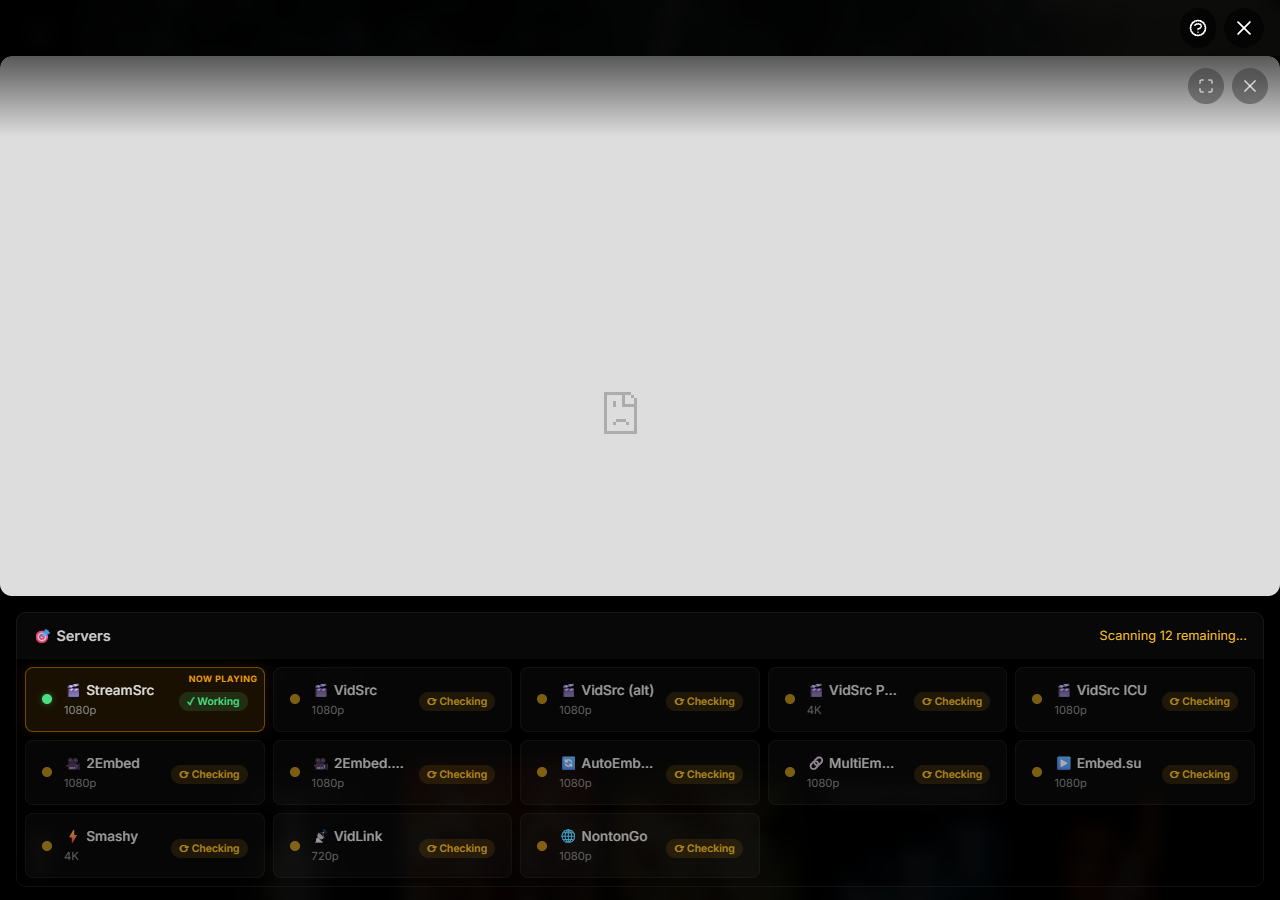
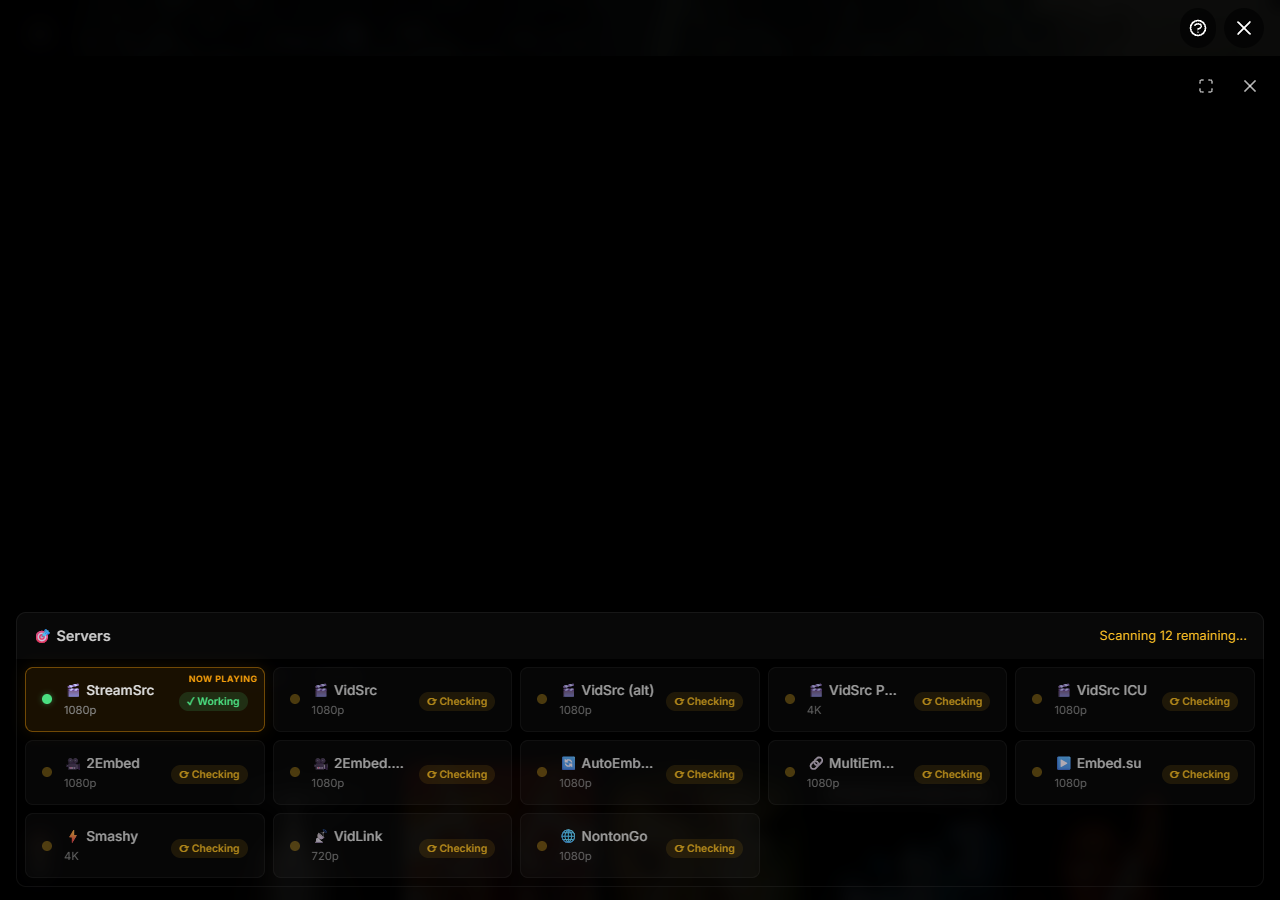
remove redundant allowfullscreen attribute (causing console warning)

diff --git a/src/lib/components/media/MediaCard.svelte b/src/lib/components/media/MediaCard.svelte
@@ -134,8 +134,8 @@
 							class="h-full w-full"
 							style="pointer-events: none;"
 							loading="lazy"
-							allow="autoplay; encrypted-media"
-							sandbox="allow-scripts allow-same-origin" allowfullscreen
+							allow="autoplay; encrypted-media; fullscreen"
+							sandbox="allow-scripts allow-same-origin"
 						></iframe>
 						<div class="absolute inset-0 bg-linear-to-t from-background/90 via-background/10 to-transparent"></div>
 					</div>

diff --git a/src/lib/components/player/MediaPlayer.svelte b/src/lib/components/player/MediaPlayer.svelte
@@ -118,7 +118,7 @@
 				allow="autoplay; fullscreen; picture-in-picture"
 				onload={() => playerService.handleIframeLoad(currentQualities, currentSubtitles)}
 				referrerpolicy="no-referrer"
-				sandbox="allow-scripts allow-same-origin" allowfullscreen
+				sandbox="allow-scripts allow-same-origin"
 				webkit-airplay="allow"
 				x-webkit-airplay="allow"
 				playsinline

diff --git a/src/lib/components/player/InlinePlayer.svelte b/src/lib/components/player/InlinePlayer.svelte
@@ -426,7 +426,7 @@
 			onload={handleIframeLoad}
 			onerror={handleIframeError}
 			referrerpolicy="no-referrer"
-			sandbox="allow-scripts allow-same-origin" allowfullscreen
+			sandbox="allow-scripts allow-same-origin"
 			webkit-airplay="allow"
 			x-webkit-airplay="allow"
 		></iframe>
